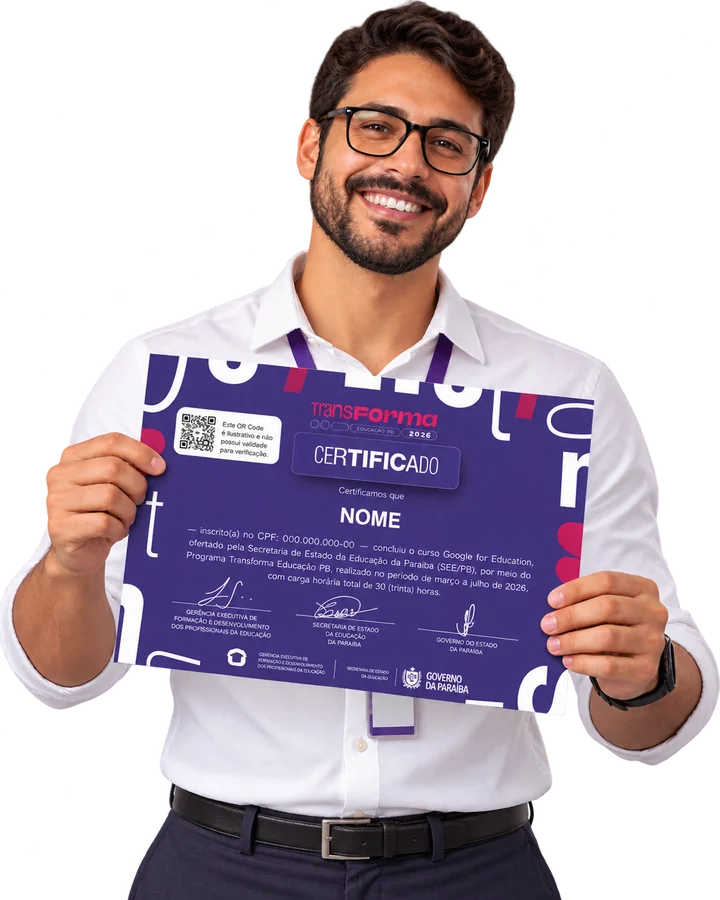
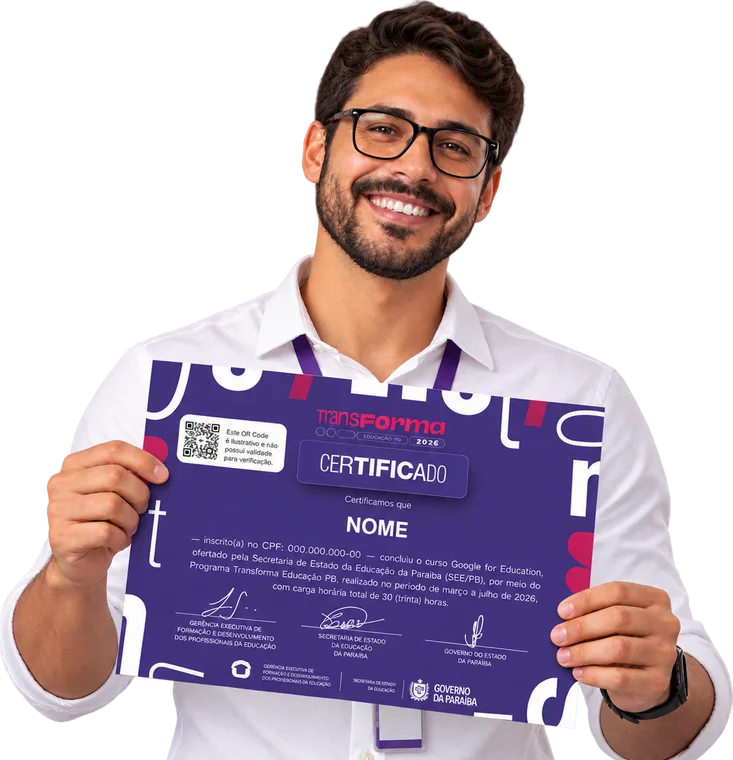
home: faixa de certificados mais compacta, foto da cintura para cima com fundo branco

diff --git a/frontend/src/pages/Home.jsx b/frontend/src/pages/Home.jsx
@@ -644,50 +644,54 @@ export default function Home() {
             concluiu precisa saber agora. A foto (recorte com fundo transparente)
             encosta na base da faixa. */}
         <section className="overflow-hidden bg-gradient-to-r from-[#3b1d7a] via-[#6f35b5] to-[#a855f7]">
-          <div className="mx-auto grid max-w-[1180px] items-end gap-6 px-[22px] pt-16 md:grid-cols-[1.05fr_0.95fr] md:pt-12">
-            <div className="pb-4 text-center md:pb-16 md:text-left">
-              <span className="mb-4 inline-block rounded-full bg-white/15 px-3 py-1.5 text-xs font-black uppercase tracking-wider text-white/85 ring-1 ring-white/25">
-                Novidade · Certificados
+          <div className="mx-auto grid max-w-[1080px] items-end gap-4 px-[22px] pt-12 md:grid-cols-[1.15fr_0.85fr] md:pt-10">
+            <div className="pb-2 text-center md:pb-12 md:text-left">
+              <span className="mb-3 inline-block rounded-full bg-white/15 px-3 py-1.5 text-xs font-black uppercase tracking-wider text-white/85 ring-1 ring-white/25">
+                Certificados
               </span>
-              <h2 className="mb-4 text-[34px] font-black uppercase leading-[1.05] tracking-tight text-white sm:text-[40px]">
+              <h2 className="mb-3 text-[30px] font-black leading-tight tracking-tight text-white sm:text-[36px]">
                 Seu certificado agora está na Área do Cursista
               </h2>
-              <p className="mx-auto max-w-[520px] text-[17px] leading-relaxed text-white/85 md:mx-0">
+              <p className="mx-auto max-w-[520px] text-[16px] leading-relaxed text-white/85 md:mx-0">
                 Concluiu um curso do Transforma? Entre com o seu CPF, abra <strong className="text-white">Meus cursos</strong> e
-                baixe o certificado na hora, em PDF. Cada certificado tem um código e um QR Code para qualquer pessoa
-                conferir a autenticidade aqui no site.
+                baixe o certificado em PDF. Cada certificado tem um código e um QR Code para conferir a autenticidade aqui no site.
               </p>
-              <ol className="mx-auto mt-6 grid max-w-[520px] gap-2 text-left text-[14.5px] text-white/90 md:mx-0">
+              <ol className="mx-auto mt-5 grid max-w-[520px] gap-2 text-left text-[14px] text-white/90 md:mx-0">
                 {['Entre na Área do Cursista com o seu CPF', 'Clique no ícone de certificado do curso concluído', 'Baixe o PDF e guarde ou imprima'].map((passo, i) => (
                   <li key={passo} className="flex items-center gap-3">
-                    <span className="flex h-7 w-7 flex-shrink-0 items-center justify-center rounded-full bg-white text-[13px] font-black text-[#6f35b5]">{i + 1}</span>
+                    <span className="flex h-6 w-6 flex-shrink-0 items-center justify-center rounded-full bg-white text-[12px] font-black text-[#6f35b5]">{i + 1}</span>
                     {passo}
                   </li>
                 ))}
               </ol>
-              <div className="mt-8 flex flex-wrap justify-center gap-3 md:justify-start">
+              <div className="mt-6 flex flex-wrap justify-center gap-3 md:justify-start">
                 <Link
-                  className="inline-flex min-h-[48px] items-center justify-center rounded-xl bg-white px-7 py-3 text-[15px] font-black text-[#6f35b5] shadow-lg transition hover:-translate-y-0.5 hover:shadow-xl"
+                  className="inline-flex min-h-[46px] items-center justify-center rounded-xl bg-white px-6 py-3 text-[15px] font-black text-[#6f35b5] shadow-lg transition hover:-translate-y-0.5 hover:shadow-xl"
                   to="/area-do-cursista"
                 >
                   Acessar meus certificados
                 </Link>
                 <Link
-                  className="inline-flex min-h-[48px] items-center justify-center rounded-xl border border-white/50 bg-white/15 px-7 py-3 text-[15px] font-black text-white backdrop-blur-sm transition hover:-translate-y-0.5 hover:bg-white/25"
+                  className="inline-flex min-h-[46px] items-center justify-center rounded-xl border border-white/50 bg-white/15 px-6 py-3 text-[15px] font-black text-white backdrop-blur-sm transition hover:-translate-y-0.5 hover:bg-white/25"
                   to="/validar"
                 >
                   Validar um certificado
                 </Link>
               </div>
             </div>
-            <div className="flex justify-center md:justify-end">
+
+            {/* Foto recortada da cintura para cima, encostada na base da faixa.
+                Atras dela, um quadrado branco arredondado da o contraste com o
+                roxo; a base dele passa da faixa e e cortada pelo overflow. */}
+            <div className="relative mx-auto w-full max-w-[300px] sm:max-w-[340px] md:mx-0 md:ml-auto md:max-w-[360px]">
+              <div className="absolute inset-x-[6%] bottom-[-12%] top-[16%] rounded-[36px] bg-white shadow-[0_20px_50px_rgba(28,16,51,.25)]" aria-hidden="true" />
               <img
                 src="/imagens/certificado-cursista.webp"
                 alt="Professor segurando o certificado do Transforma Educação PB"
-                width="720"
-                height="900"
+                width="733"
+                height="760"
                 loading="lazy"
-                className="block h-auto w-full max-w-[340px] drop-shadow-[0_20px_40px_rgba(28,16,51,.35)] sm:max-w-[400px] md:max-w-[460px]"
+                className="relative block h-auto w-full"
               />
             </div>
           </div>
